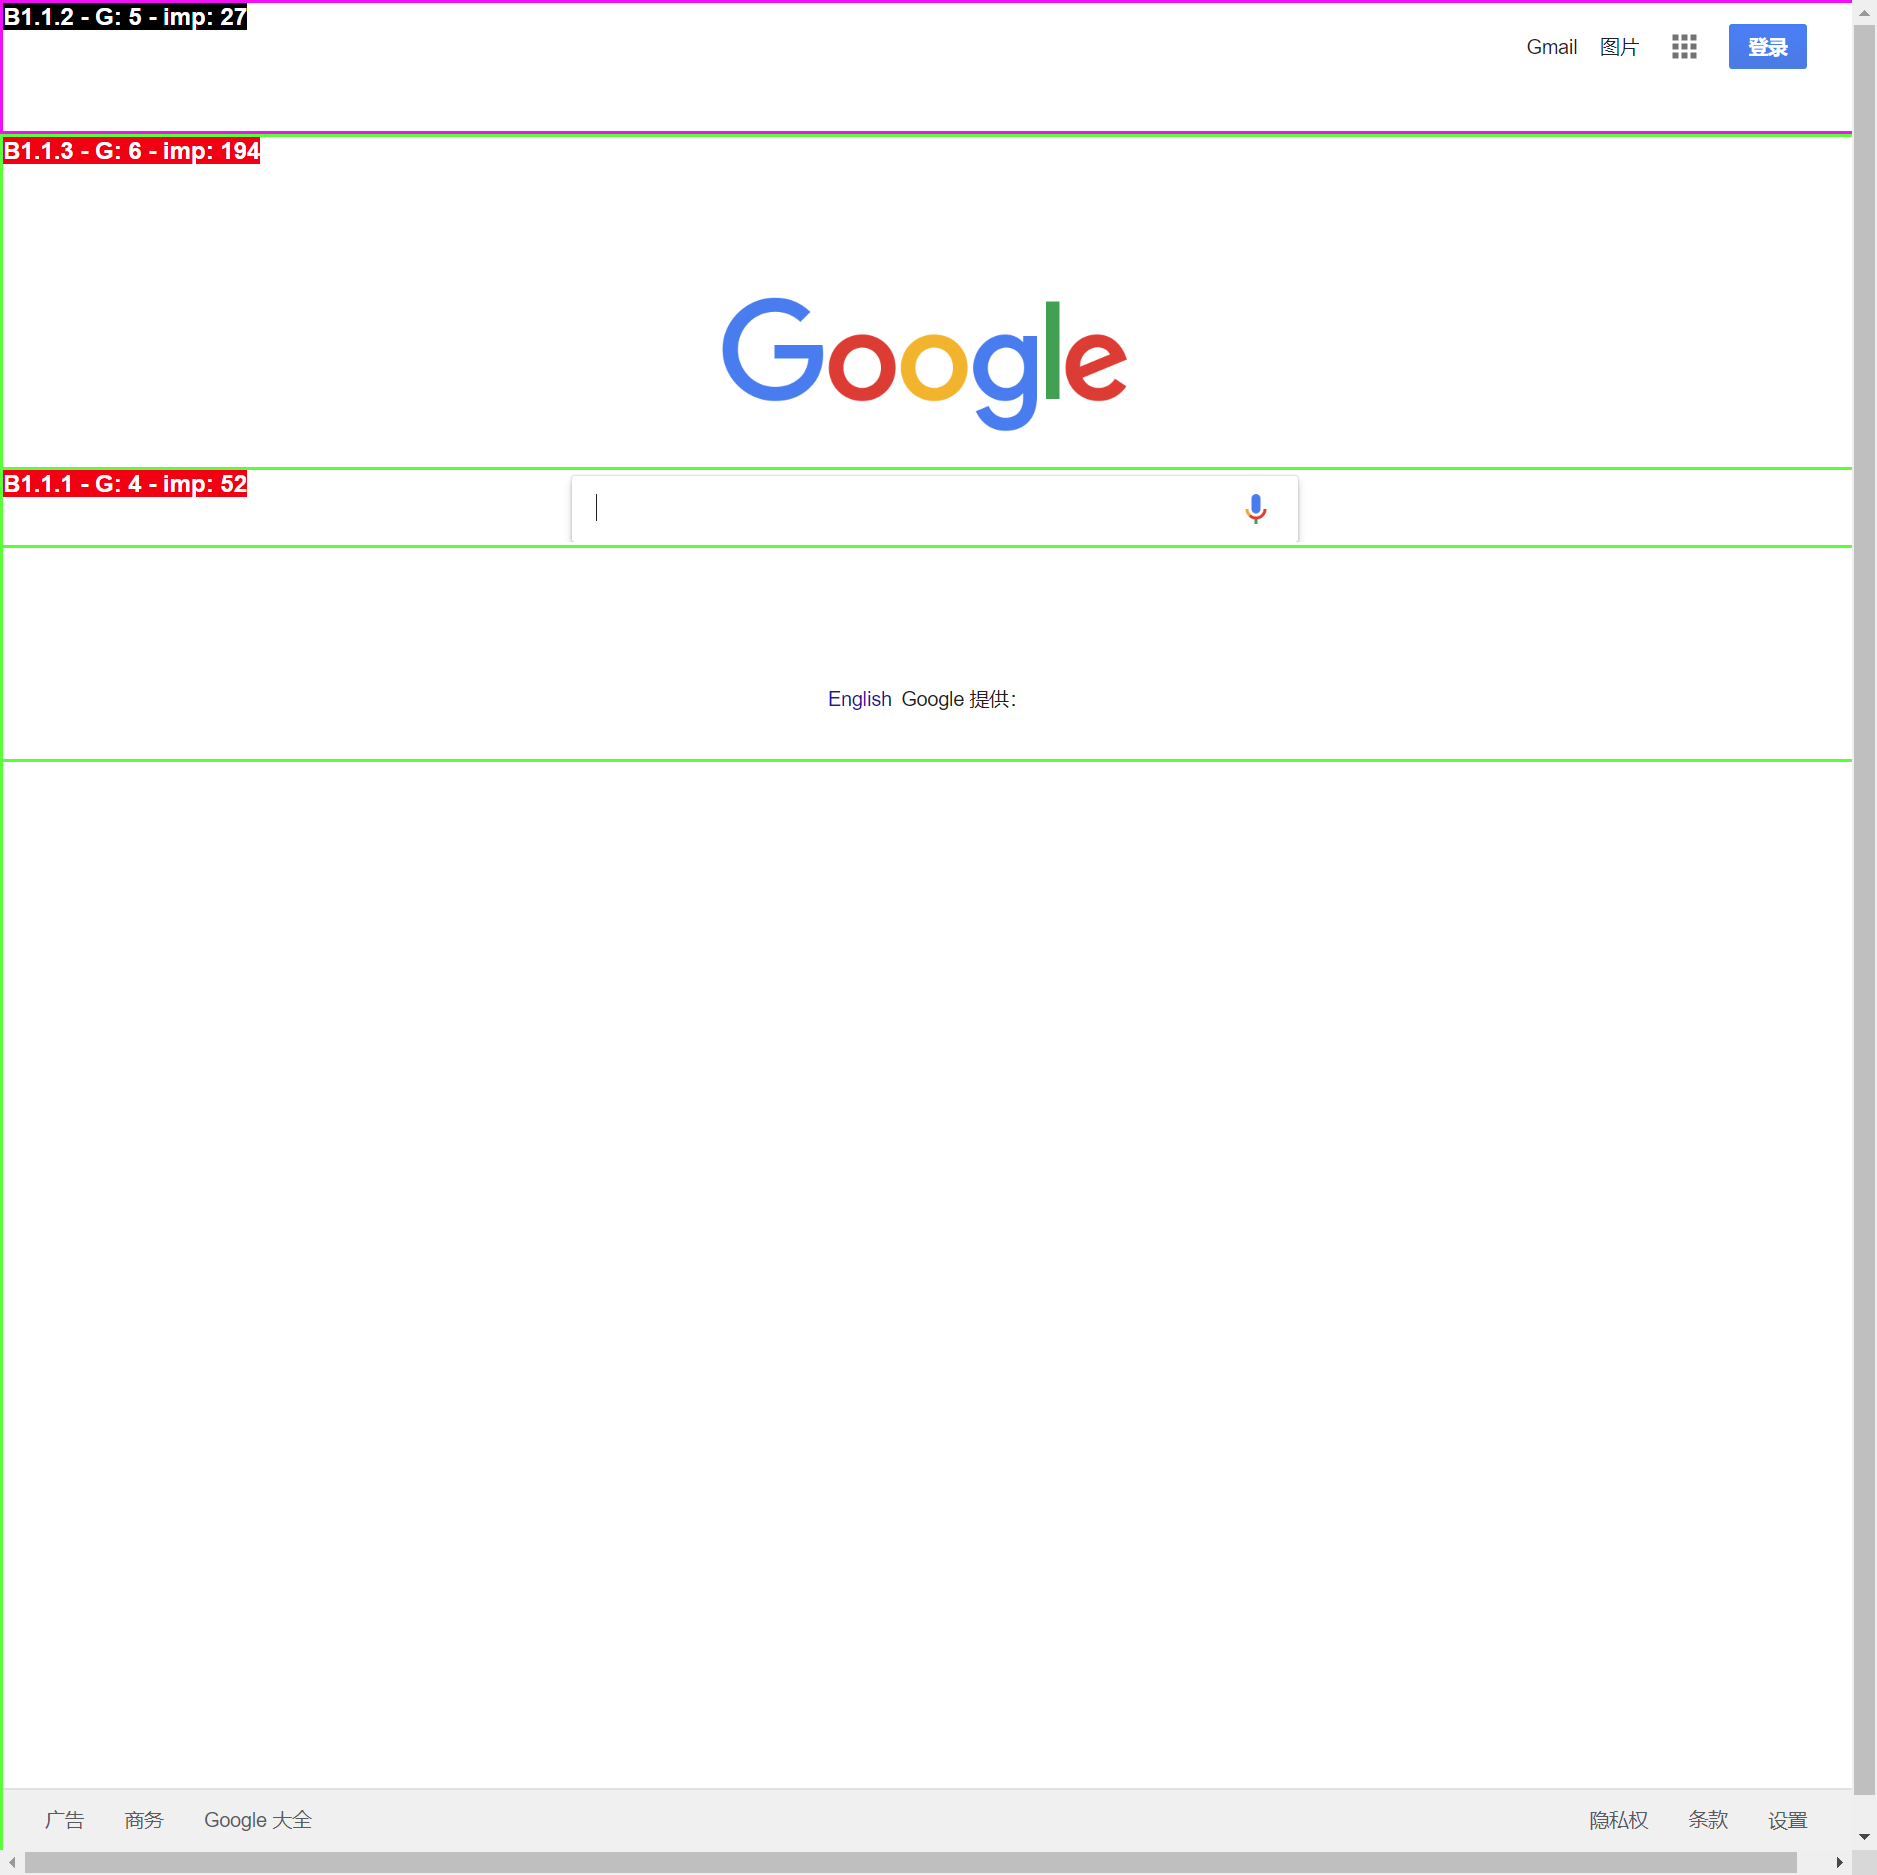
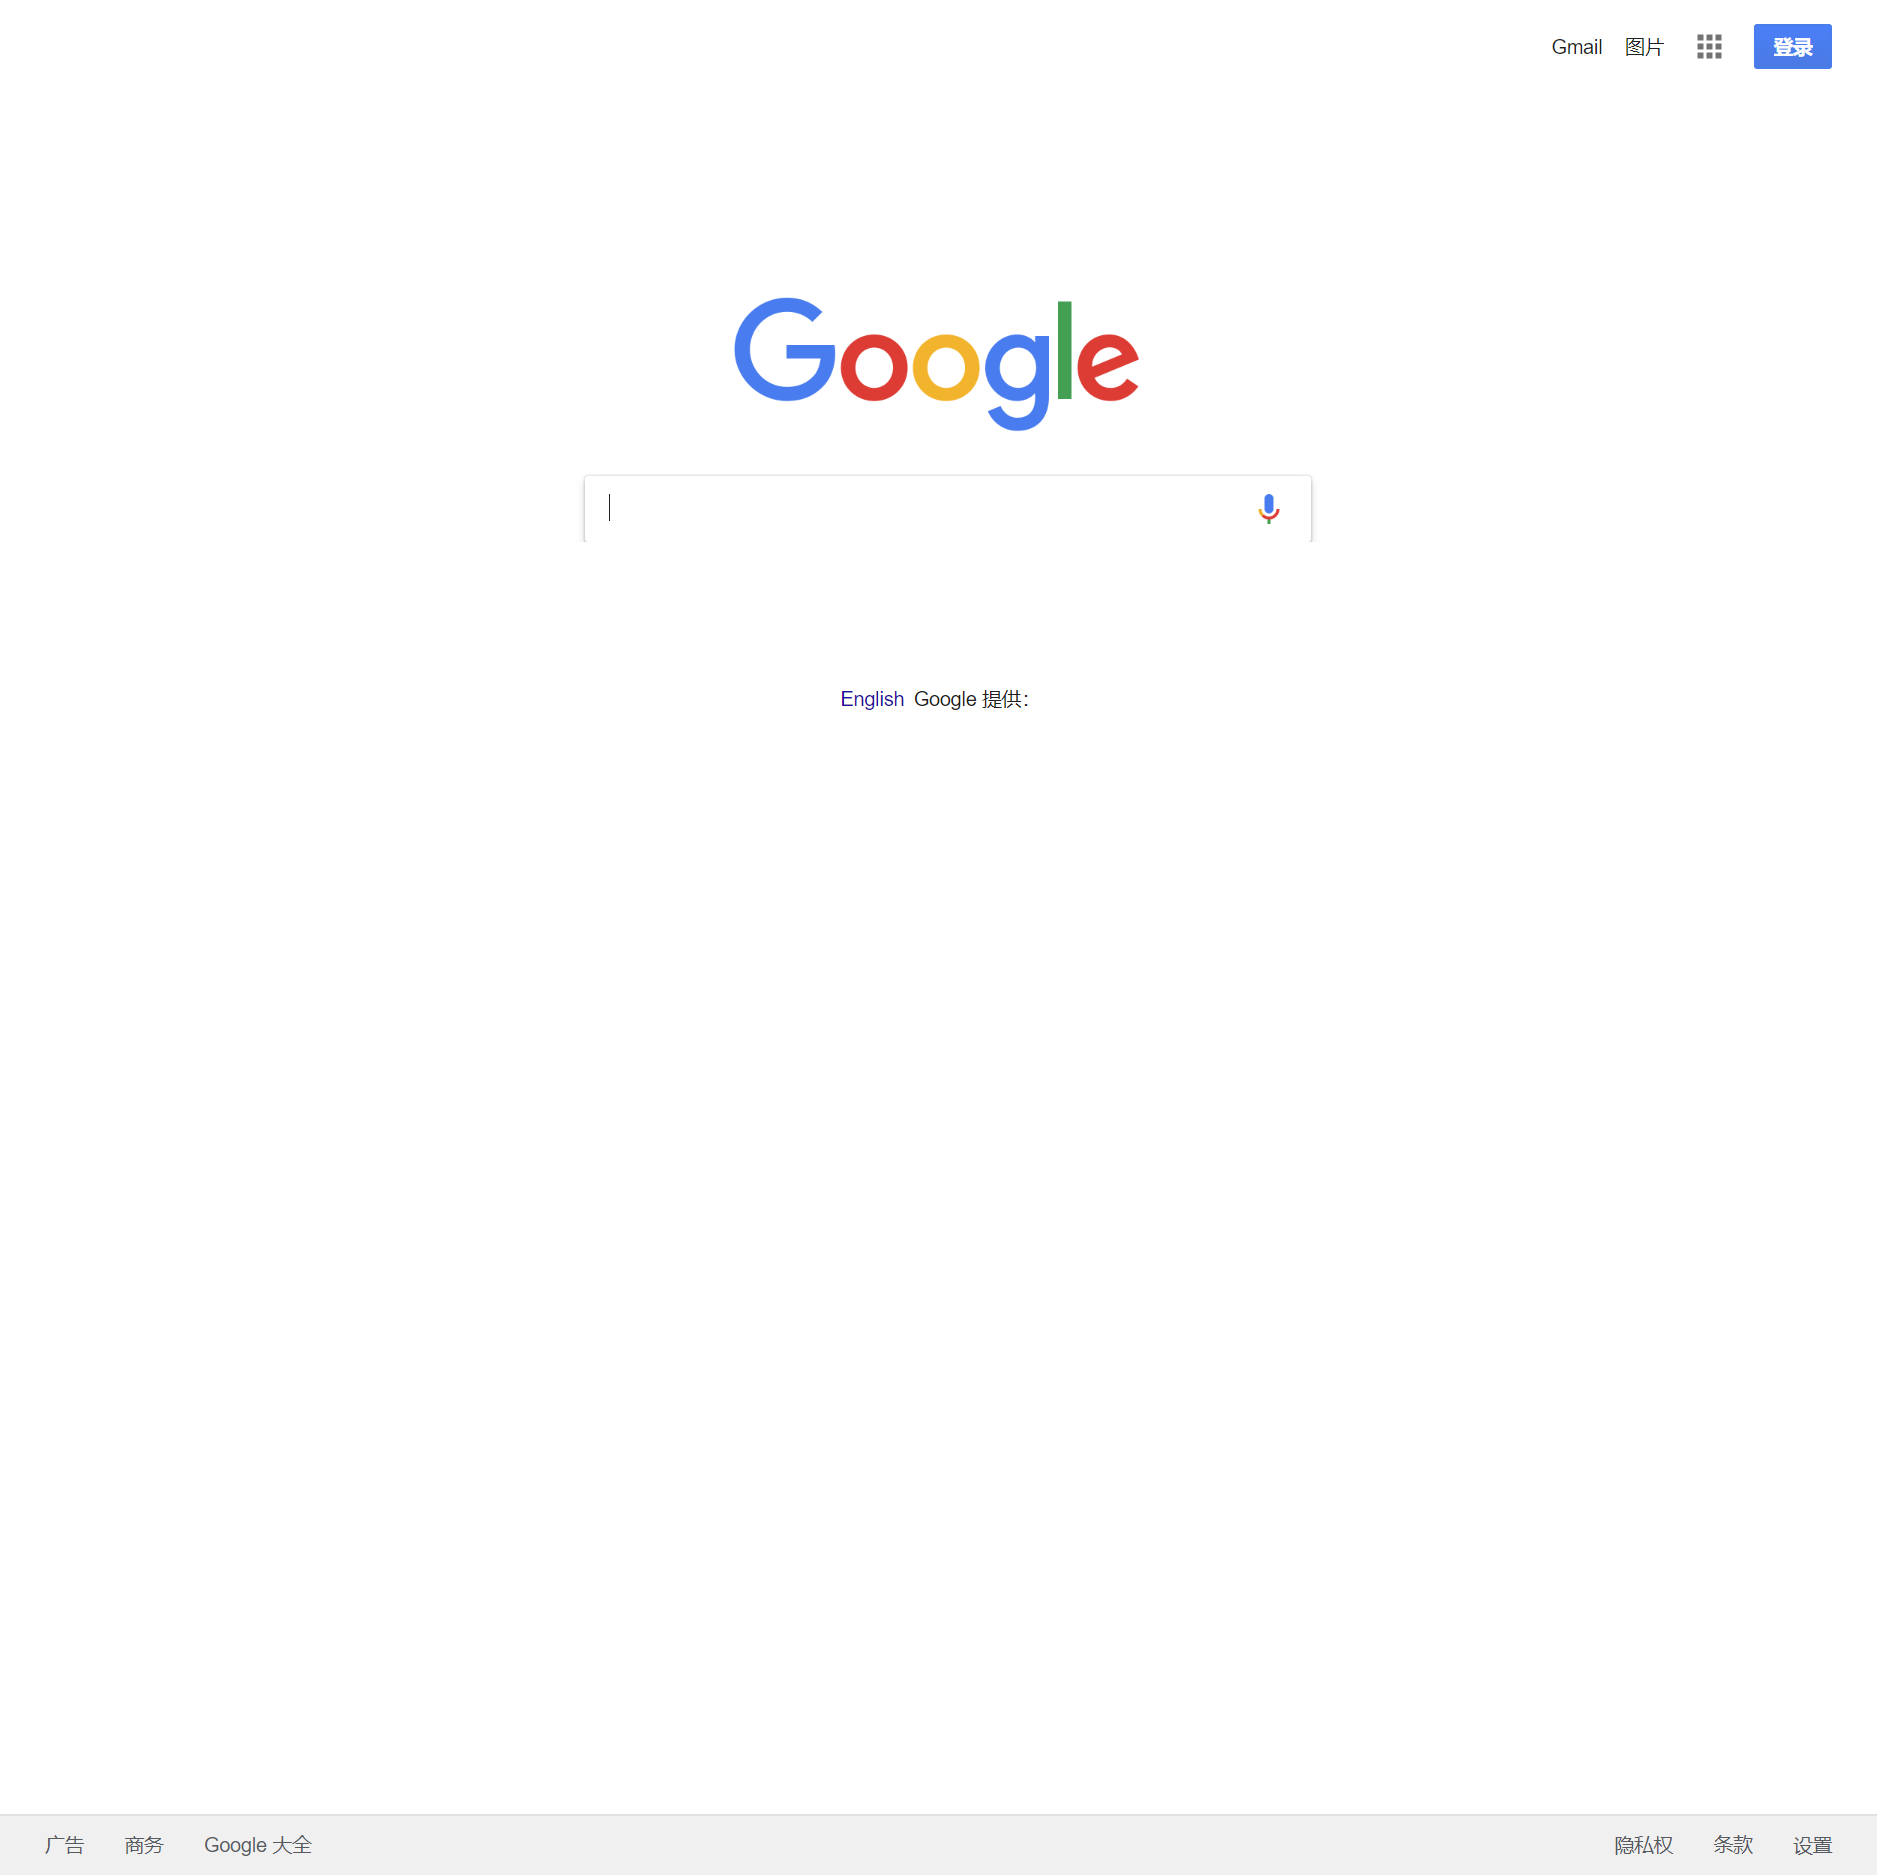
增加模块：buildPage
vdom需要重新回到浏览器执行
如果直接传vdom对象，猜测selenium会把对象转成字符串，而vdom又存在环路，会导致node内存爆堆；尝试用browserify打包vdom创建element的方法，在driver里面执行上述过程

diff --git a/lib/mob/js/bomlib.js b/lib/mob/js/bomlib.js
@@ -54,11 +54,11 @@ function startSegmentation(win, pac, pdc, returnType, psourceurl) {
     processLogicStructureMain(page, 0, 1, undefined);
     buildGrid();
     processImportance(page);
-    //console.log(page)
+    console.log(page)
     // clearGrid();
     console.log(getViXML())
     console.log(getWPrima(page))
-    console.log(getRecord(page,""))
+    // console.log(getRecord(page,""))
     switch(returnType.toLowerCase()) {
         case "vixml": return(getViXML());
         case "wprima": return(getWPrima(page));
@@ -1745,8 +1745,8 @@ function Grid(rows, cols) {
         var finalXpos = parseInt((block.dim.w + block.dim.x) / this.gapCols);
         var finalYpos = parseInt((block.dim.h + block.dim.y) / this.gapRows);
         var acum = 0;
-        for (var i = initialYpos; i <= finalYpos; i++) {
-            for (var j = initialXpos; j <= finalXpos; j++) {
+        for (var i = initialYpos; i <= finalYpos && i < this.rows; i++) {
+            for (var j = initialXpos; j <= finalXpos && j < this.cols; j++) {
                 acum += this.get(i, j);
             }
         }
@@ -1778,6 +1778,7 @@ function getWPrima(log) {
         return;
     var prima = "";
     var type;
+    var html = "";
     if (log.terminal()) {
         type = "BLOCK";
     } else {
@@ -1787,7 +1788,6 @@ function getWPrima(log) {
         prima += "<!DOCTYPE HTML PUBLIC \"-//W3C//DTD HTML 4.01 Transitional//EN\" \"http://www.w3.org/TR/html4/loose.dtd\">\n<html>\n<head>\n</head>\n<body>\n";
         type = "PAGE";
     } else {
-        var html = "";
         for (var j = 0; j < log.geometricObjects.length; j++) {
             var geo = log.geometricObjects[j];
             if (geo) {
@@ -1826,7 +1826,7 @@ function getWPrima(log) {
         prima += "</body>\n</html>";
     }
 
-    return(prima);
+    return prima;
 }
 
 

diff --git a/src/runner/segRunner.js b/src/runner/segRunner.js
@@ -1,14 +1,34 @@
 const { Builder, By, Key, until } = require('selenium-webdriver');
 const seg = require('../segmentation/index');
+const rebuild = require('../buildPage/index');
 const saveImg = require('../util/saveImage');
+// parser的回调格式和node异步方法的回调格式一致，故可以用promisify
+const parser = require('html2hscript');
+const util = require('util');
+const promisifiedParser = util.promisify(parser);
+
+const h = require('virtual-dom/h');
+const createElement = require("virtual-dom/create-element");
 
 const list = [
-    'www.google.com',
+    // 'www.google.com',
+    // 'my.vultr.com',
     //'www.bilibili.com',
     //'github.com',
     //'stackoverflow.com',
-    // 'news.ycombinator.com'
+    'news.ycombinator.com'
 ]
+
+function checkStyle(node) {
+    if(node.style) {
+        console.log(node.style)
+    }
+    if(node.childNodes){
+        for(let i of node.childNodes) {
+            checkStyle(i)
+        }
+    }   
+}
 
 module.exports = async function () {
     let driver = await new Builder().forBrowser('chrome').build();
@@ -21,9 +41,12 @@ module.exports = async function () {
                     pac: i,
                     returnType : 'wprima'
                 })
-                console.log(data)
                 let imgData = await driver.takeScreenshot()
                 saveImg(site + 'pac-' + i, imgData)
+                let hscript = await promisifiedParser(data)
+                let node = await createElement(eval(hscript))
+                await rebuild(driver,node,site)
+                // checkStyle(node)
             // }
         }
 

diff --git a/src/buildPage/index.js b/src/buildPage/index.js
@@ -1,0 +1,19 @@
+// 根据传入的virtual-dom重新构建页面
+module.exports = async function (driver,node,site) {
+    
+    return await driver.executeScript(function () {
+        // 这部分代码是在浏览器里面执行的，只能通过executeScript传递参数进去执行
+        data = arguments[0]
+        try {
+            console.log(data.node)
+            location.href = "about:blank;"
+            document.replaceChild(data.node,document.getElementsByTagName('html')[0])
+        } catch(e) {
+            console.log(e)
+        }
+        return 1
+    }, {
+            node,
+        }
+    )
+}

diff --git a/src/segmentation/index.js b/src/segmentation/index.js
@@ -29,7 +29,11 @@ module.exports = async function (driver,
     return await driver.executeScript(function () {
         // 这部分代码是在浏览器里面执行的，只能通过executeScript传递参数进去执行
         data = arguments[0]
-        eval(data.jsData)
+        try {
+            eval(data.jsData)
+        } catch(e) {
+            console.log(e)
+        }
         return startSegmentation(window, data.pac, data.pdc, data.returnType)
     }, {
             jsData,
